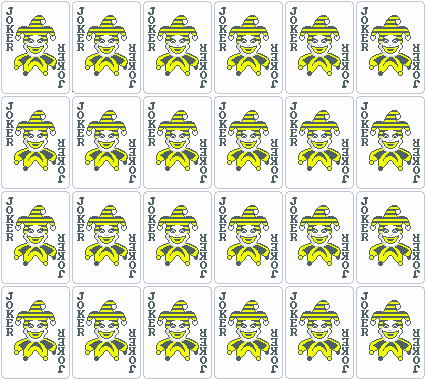
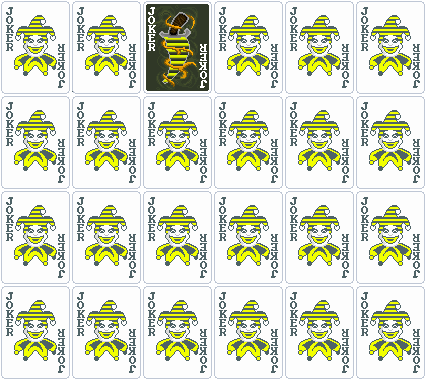
Added Ball of Bees code and art for Bee-Bee Dagger

Changed region(s): [[0.3357, 0.0, 0.4883, 0.2605]]

diff --git a/assets/1x/resize.py b/assets/1x/resize.py
@@ -3,7 +3,7 @@ from PIL import Image
 import os
 import time
 
-os.chdir("C:\\Users\\User\\Documents\\Bee-latro\\Bee-latro\\assets\\1x")
+
 
 
 def upscale_pixel_art(input_image, output_directory, input_image_path):
